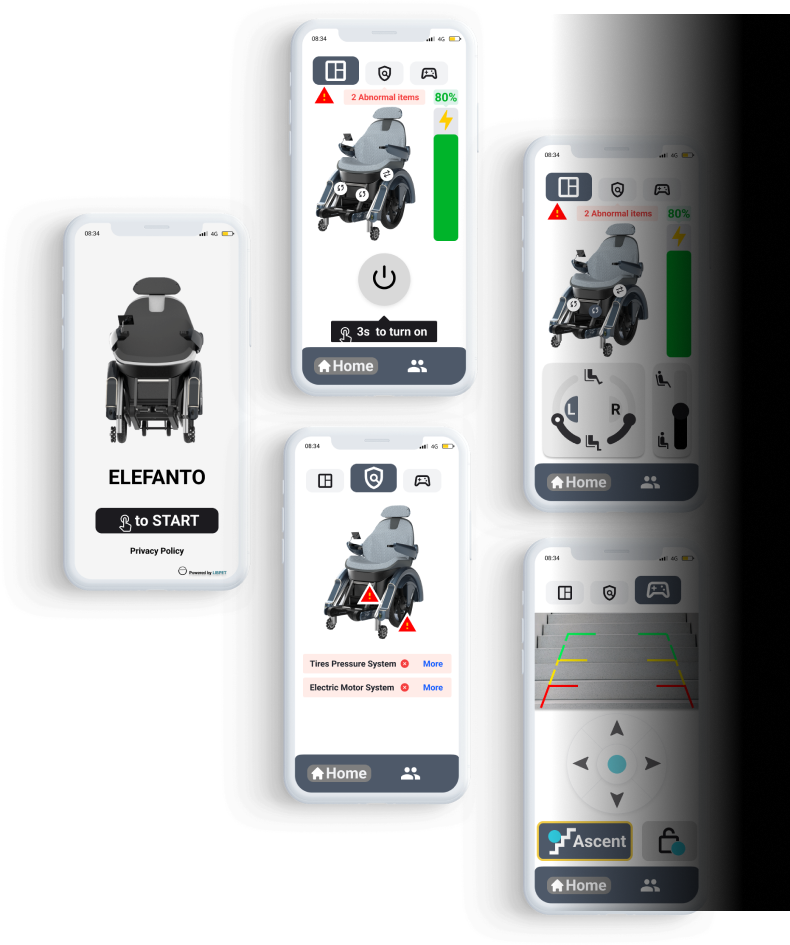
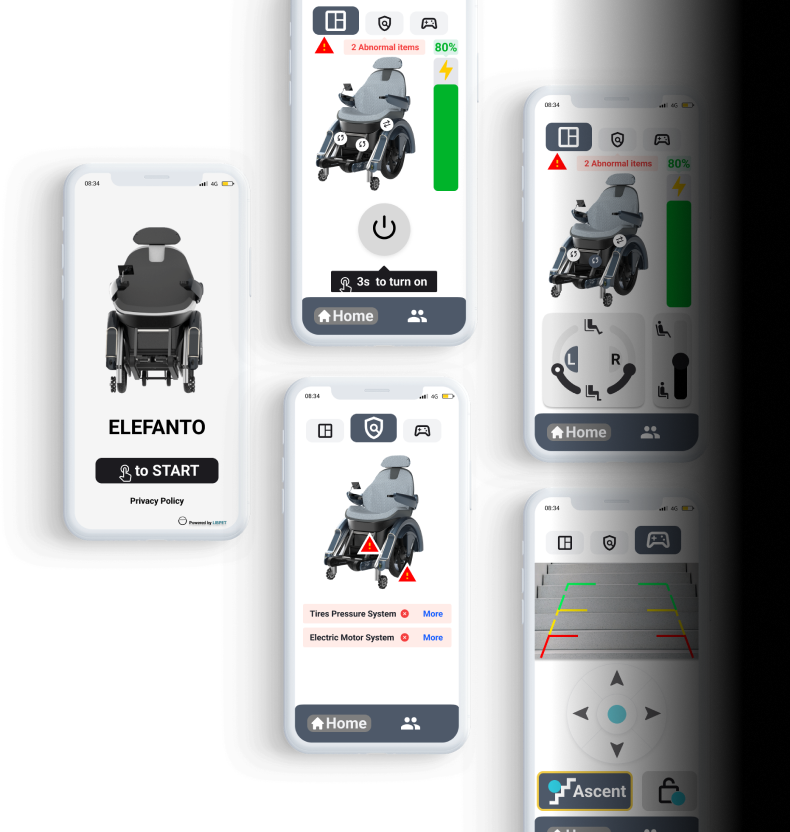
product image updated

diff --git a/product.html b/product.html
@@ -222,7 +222,7 @@
           <div class="col-md-6" style="padding:0;">
 
             <div class="img-box img-box-3">
-              <img src="img/product/product-3.png" alt="">
+              <img src="img/product/product-3.png" alt="" class="scale-img">
             </div>
           </div>
           <div class="col-md-6">

diff --git a/css/product.css b/css/product.css
@@ -1216,6 +1216,8 @@ body{
   width: 100%;
 }
 
+
+
 @media only screen and (max-width: 992px){
 
   .about_section .img-box img {
@@ -1224,6 +1226,8 @@ body{
     display: block;
     margin: auto;
   }
+
+
 }
 
 .detail{
